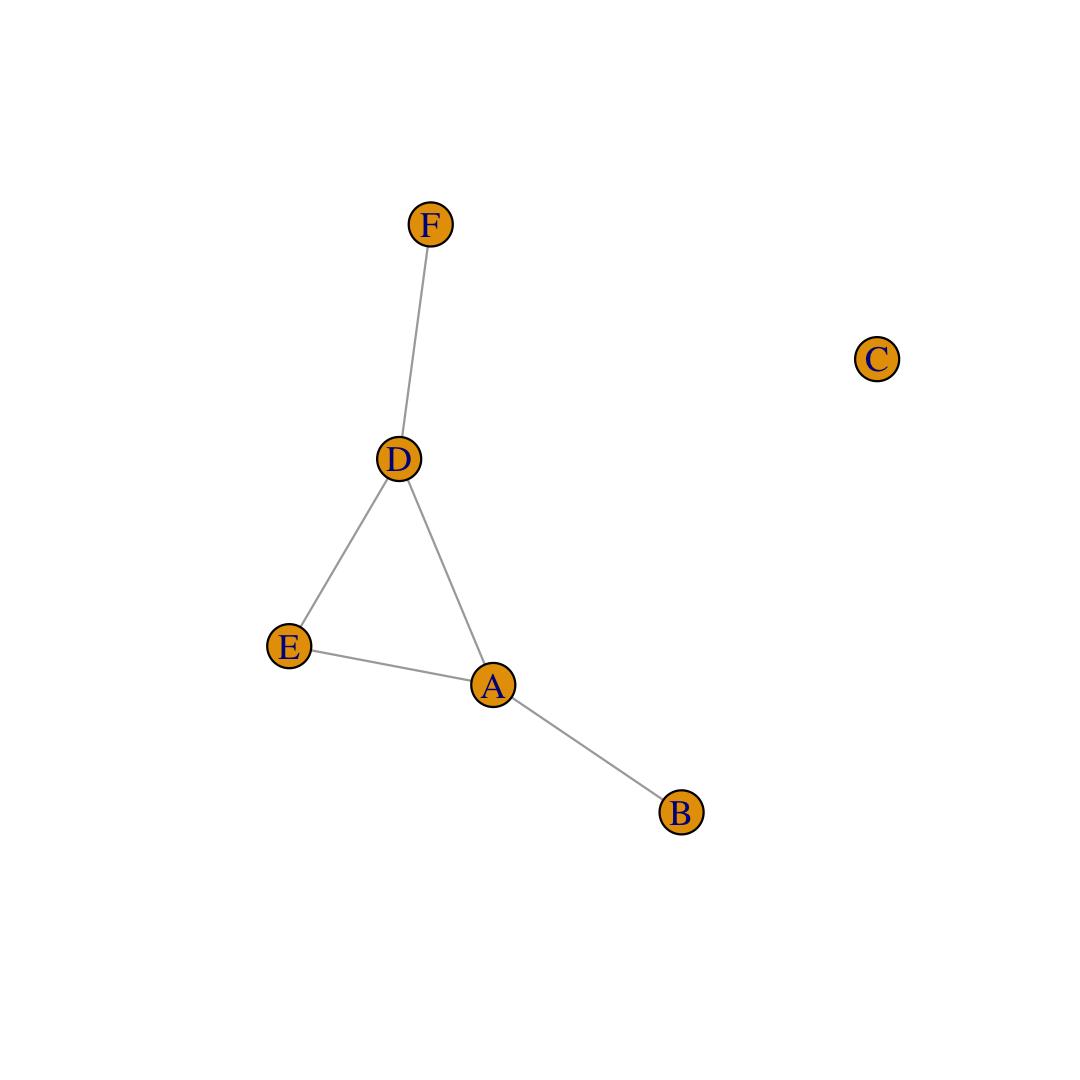
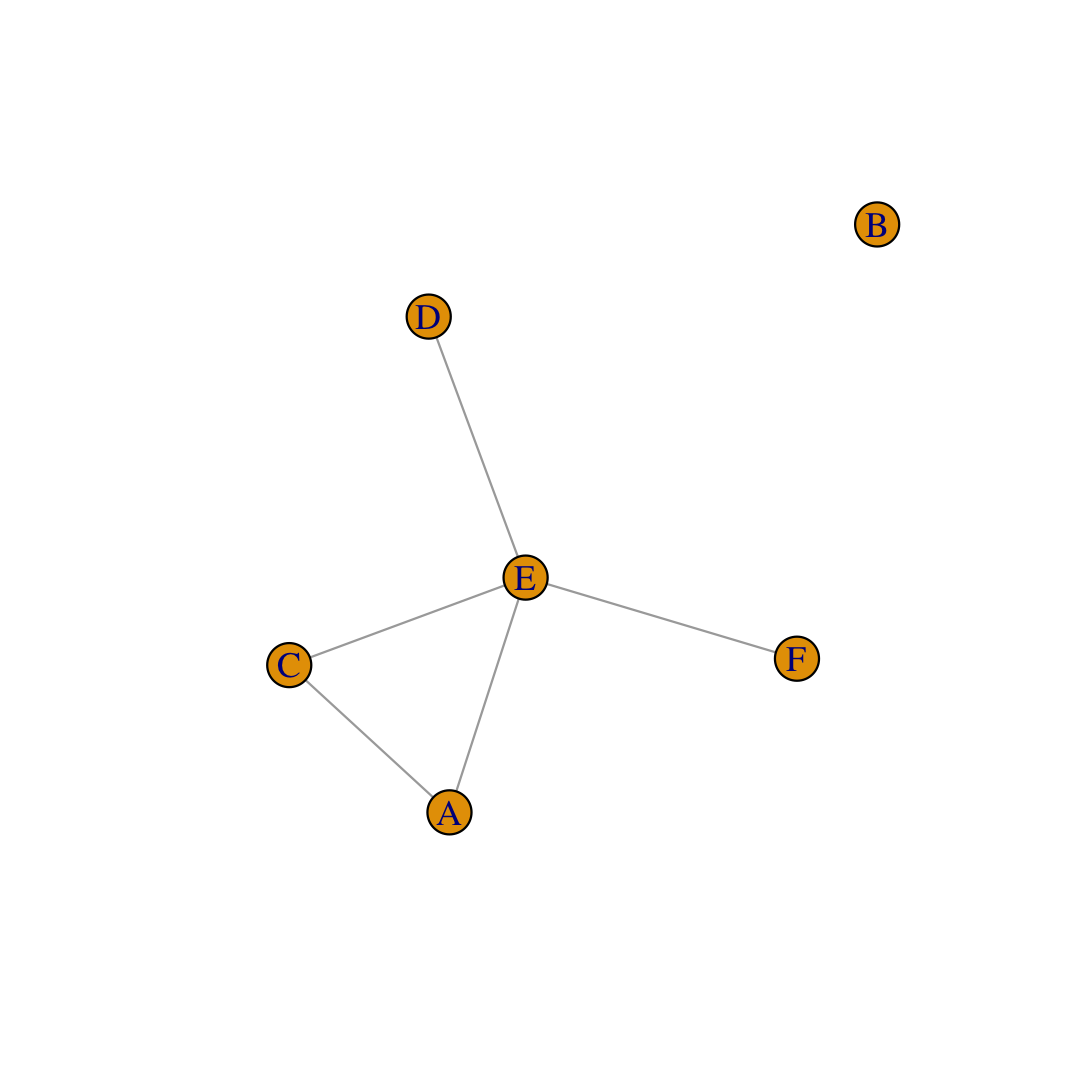
fix

diff --git a/static/slides/05-slides.html b/static/slides/05-slides.html
@@ -187,12 +187,12 @@ Adapted from Palomo et. al 2014
 
 ```
 ##   A B C D E F
-## A 0 1 1 1 0 0
-## B 1 0 0 0 0 0
-## C 1 0 0 0 0 0
-## D 1 0 0 0 0 0
-## E 0 0 0 0 0 0
-## F 0 0 0 0 0 0
+## A 0 0 1 0 1 0
+## B 0 0 0 0 0 0
+## C 1 0 0 0 1 0
+## D 0 0 0 0 1 0
+## E 1 0 1 1 0 1
+## F 0 0 0 0 1 0
 ```
 ]
 .pull-right[
@@ -201,12 +201,12 @@ Adapted from Palomo et. al 2014
 
 ```
 ##      A    B    C    D    E    F
-## A 0.00 0.54 0.60 0.86 0.00 0.00
-## B 0.94 0.00 0.90 0.00 0.00 0.00
-## C 0.00 0.66 0.00 0.51 0.91 0.00
-## D 0.00 0.91 0.75 0.00 0.68 0.83
-## E 0.00 0.69 0.00 0.62 0.51 0.95
-## F 0.00 0.00 0.00 0.00 0.00 0.00
+## A 0.00 0.00 0.00 0.67 0.95 0.87
+## B 0.00 0.68 0.84 0.00 0.00 0.53
+## C 0.66 0.00 0.83 0.00 0.91 0.58
+## D 0.77 0.00 0.00 0.85 0.78 0.00
+## E 0.00 0.51 0.00 0.00 0.91 0.72
+## F 0.85 0.00 0.60 0.00 0.82 0.00
 ```
 ]
 ---
@@ -294,7 +294,7 @@ round(st_distance(p), digits = 2)
 ]
 
 .pull-right[
-&lt;img src="05-slides_files/figure-html/pdist-1.png" width="504" style="display: block; margin: auto;" /&gt;
+&lt;img src="05-slides_files/figure-html/pdist-1.png" width="360" style="display: block; margin: auto;" /&gt;
 ]
 ---
 # Generating Spatial Networks in R
@@ -320,8 +320,21 @@ adjm
 ```
 ]
 .pull-right[
-&lt;img src="05-slides_files/figure-html/netplot-1.png" width="504" style="display: block; margin: auto;" /&gt;
+&lt;img src="05-slides_files/figure-html/netplot-1.png" width="360" style="display: block; margin: auto;" /&gt;
 ]
+---
+
+# Generating Spatial Networks in R
+- for rasters
+- `directions` define window for connected cells
+- important for connectivity analyses
+
+
+```r
+r &lt;- rast(nrows=10, ncols=10)
+values(r) &lt;- round(runif(ncell(r)) * 5)
+a &lt;- adjacent(r, 1:ncell(r), directions="queen") 
+```
     </textarea>
 <style data-target="print-only">@media screen {.remark-slide-container{display:block;}.remark-slide-scaler{box-shadow:none;}}</style>
 <script src="libs/remark-latest.min.js"></script>
